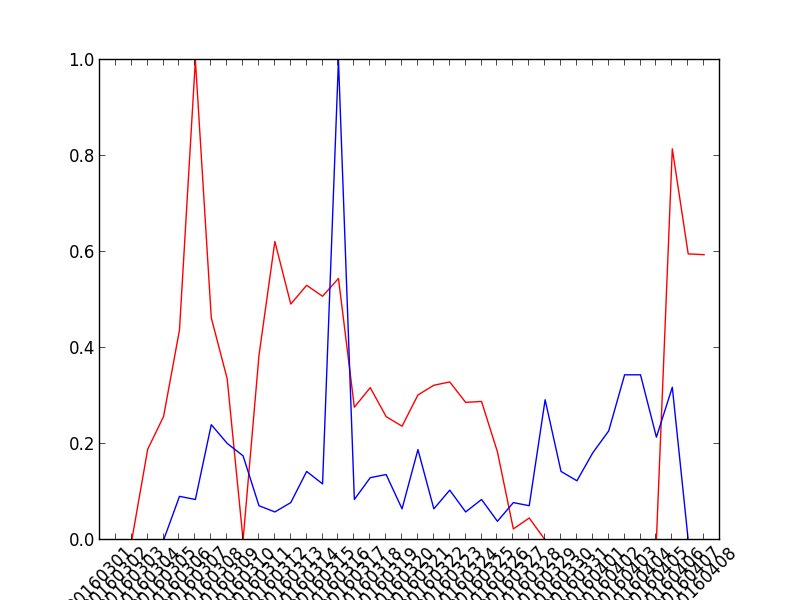
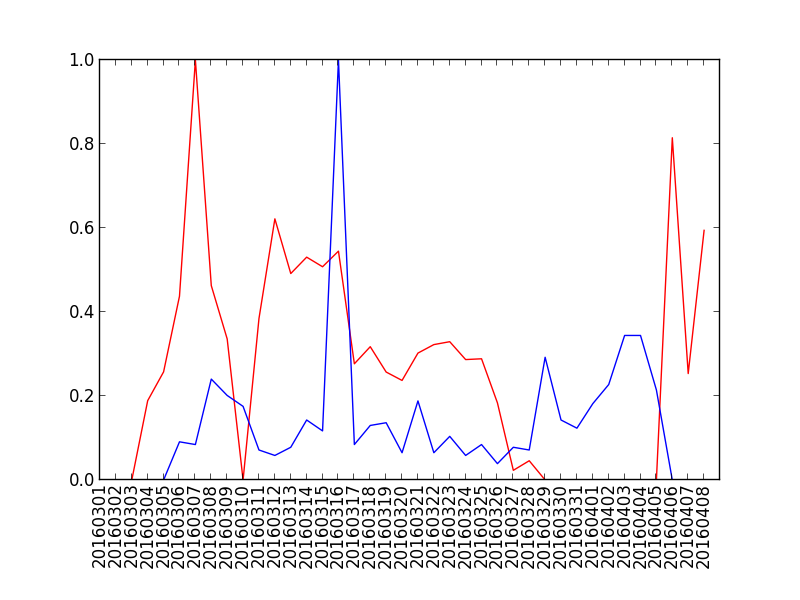
Daily commit

diff --git a/Analysis/TwitterGDELTGraphAnalysis.py b/Analysis/TwitterGDELTGraphAnalysis.py
@@ -35,8 +35,9 @@ def plotTwitter(candidate, start, end):
     #generate x-axis
     x = list(range(0, len(daily_counts)))
     plt.plot(daily_counts, 'r')
-    plt.xticks(x, dates, rotation = '45')
-    plt.xlim(0, 39)
+    plt.xticks(x, dates, rotation = 'vertical')
+    plt.xlim(0, len(daily_counts))
+    plt.gcf().subplots_adjust(bottom=0.20)
     return daily_counts
 
 def plotGDELT(candidate, start, end):
